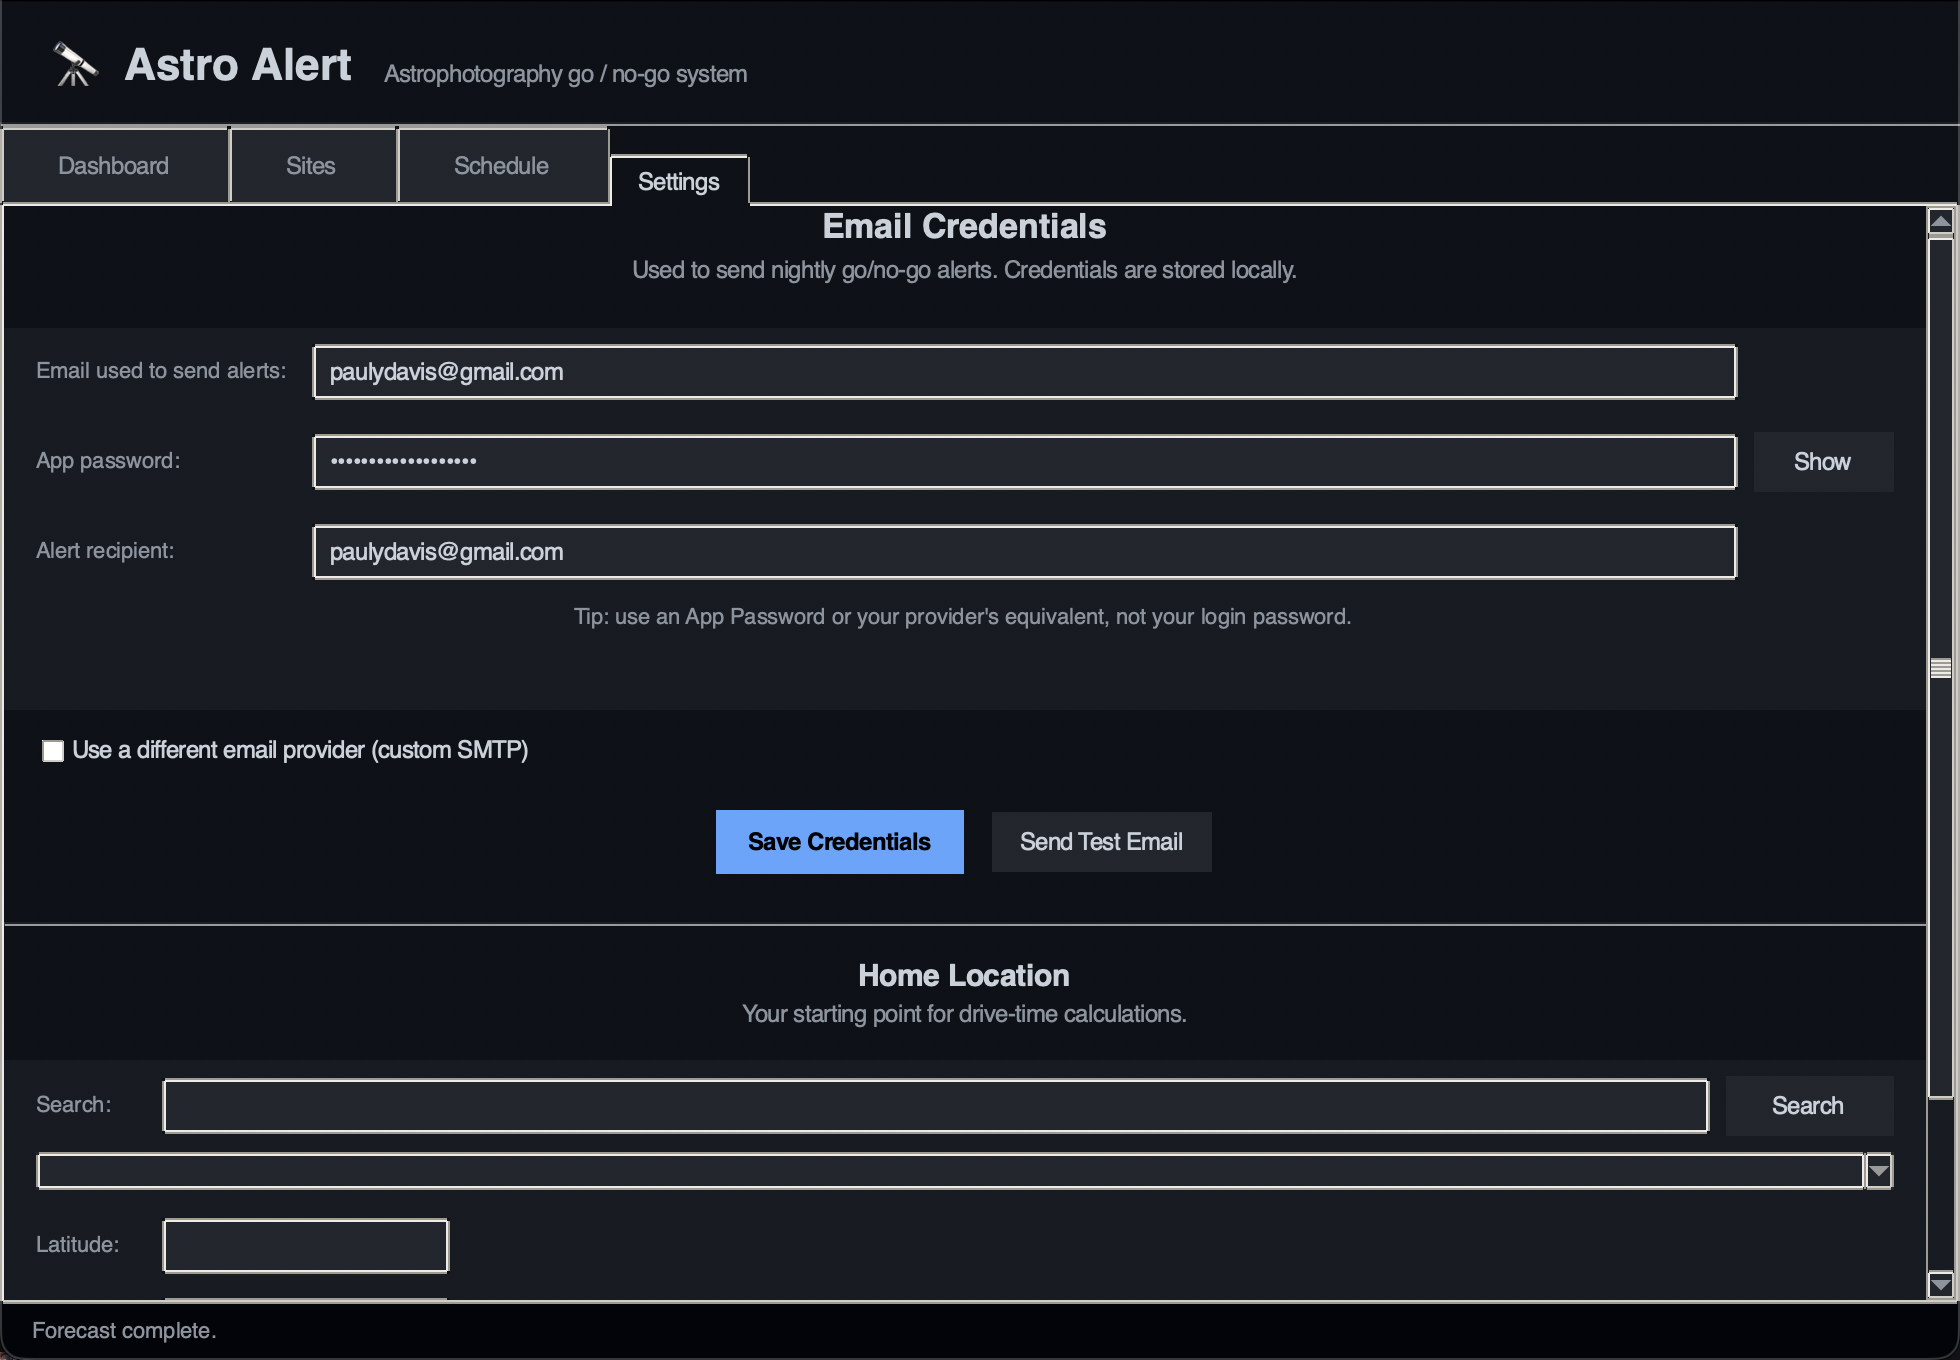
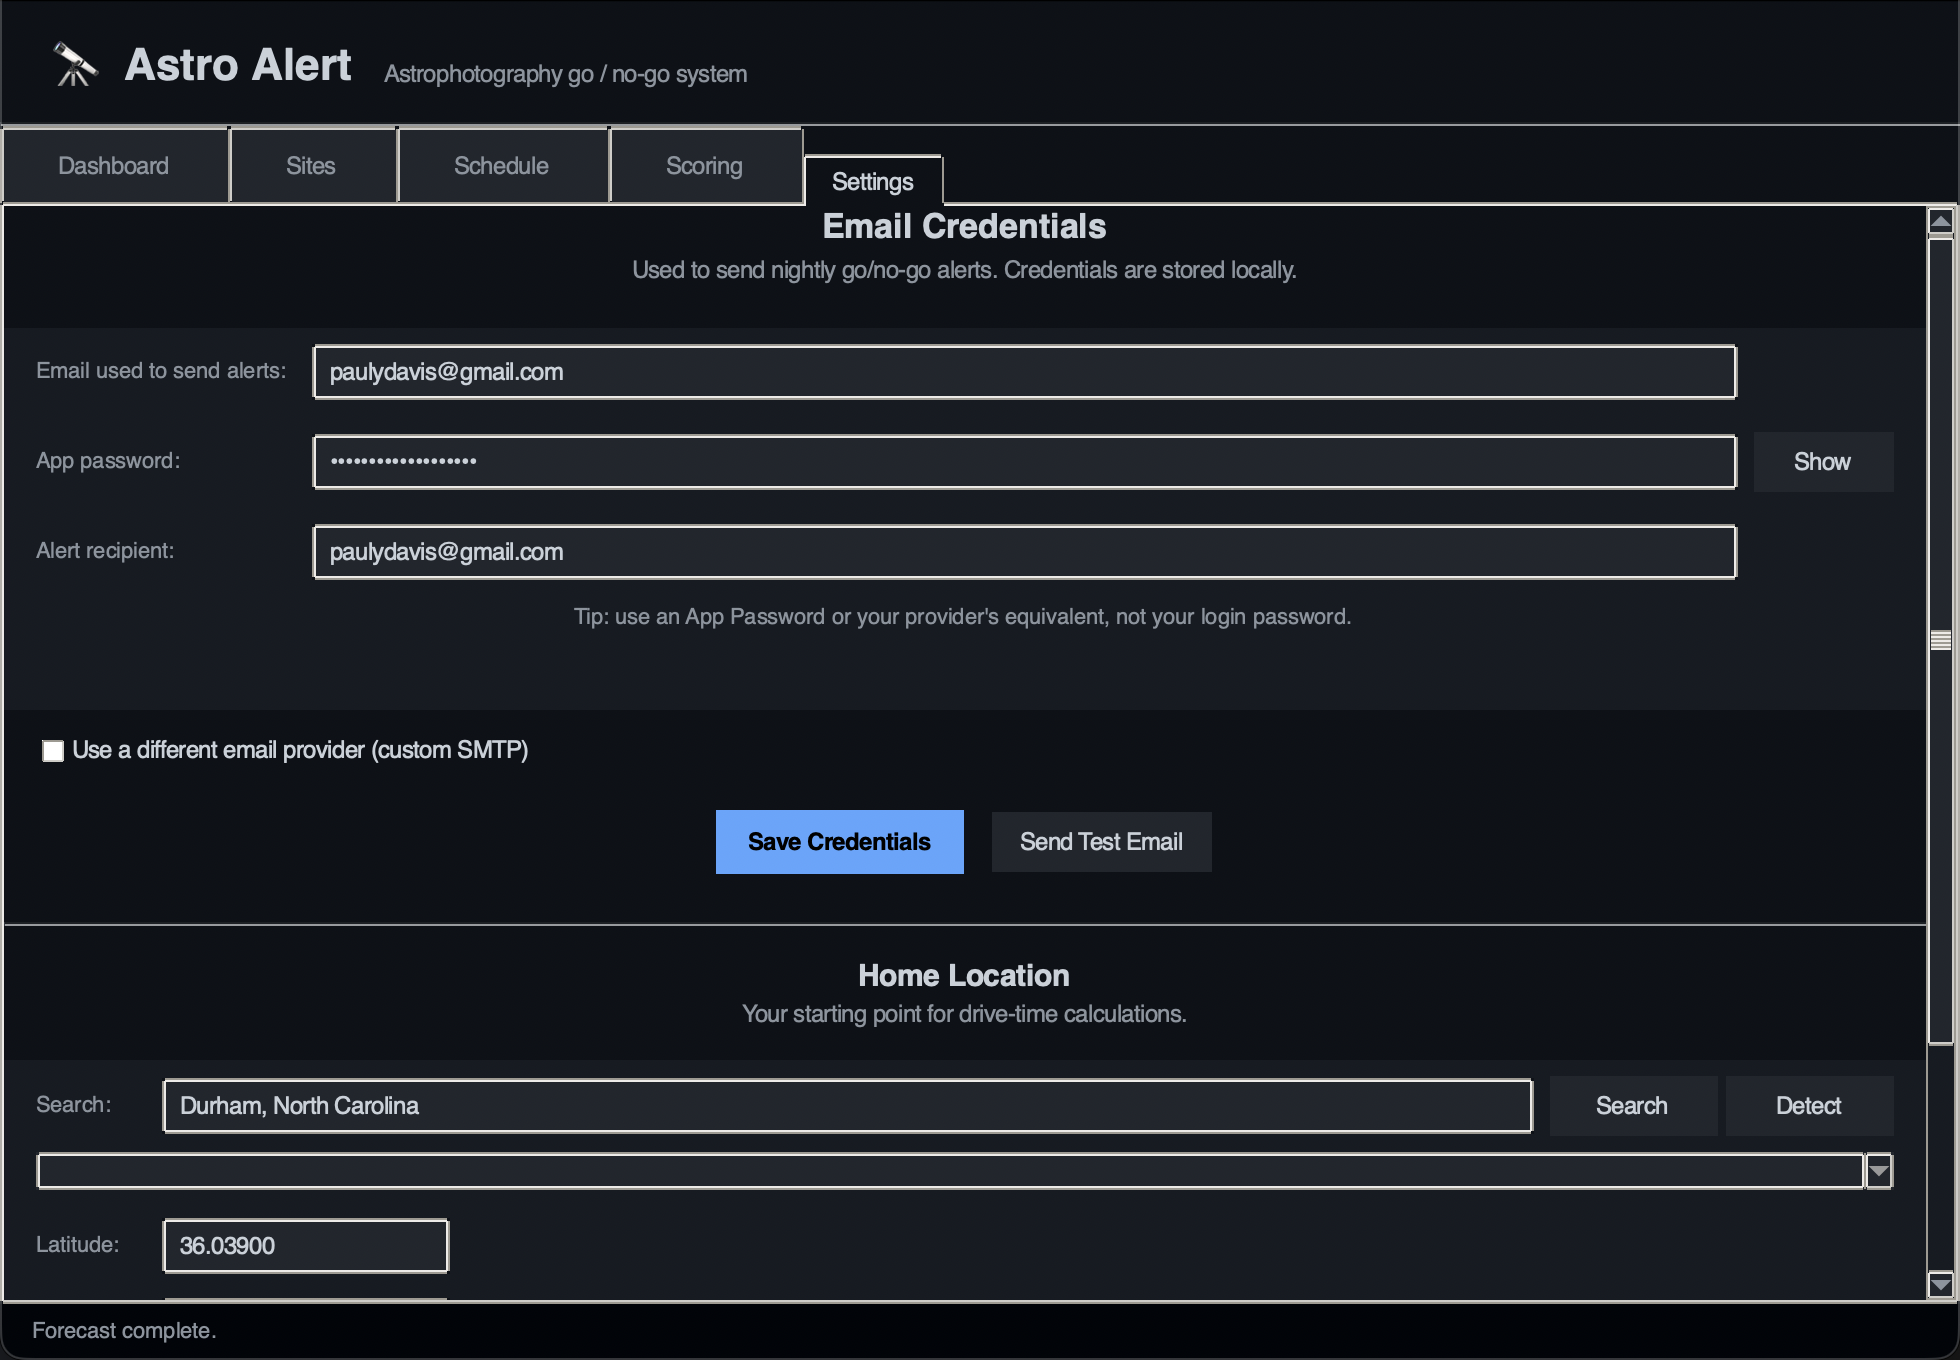
docs: refresh screenshots and README for v1.1.0 Scoring tab

diff --git a/take_screenshots.py b/take_screenshots.py
@@ -70,16 +70,21 @@ def run():
 
     def step4():
         screencap("schedule.png", app)
-        app._nb.select(3)           # Settings tab
+        app._nb.select(3)           # Scoring tab
         app.after(600, step5)
 
     def step5():
+        screencap("scoring.png", app)
+        app._nb.select(4)           # Settings tab
+        app.after(600, step6)
+
+    def step6():
         screencap("settings.png", app)
         # Open Add Site dialog
         dlg = gui.SiteDialog(app, title="Add Site")
-        app.after(400, lambda: step6(dlg))
+        app.after(400, lambda: step7(dlg))
 
-    def step6(dlg):
+    def step7(dlg):
         screencap_window("add_site_dialog.png", dlg)
         dlg.destroy()
         app.after(300, app.destroy)

diff --git a/README.md b/README.md
@@ -4,7 +4,7 @@ Go/no-go email alert system for astrophotography sessions. Fetches weather, atmo
 
 ## GUI
 
-Astro Alert has a graphical control panel with four tabs:
+Astro Alert has a graphical control panel with five tabs:
 
 **Dashboard** — run a dry-run or live forecast for any site, with colour-coded GO/NO-GO output.
 
@@ -19,6 +19,10 @@ Astro Alert has a graphical control panel with four tabs:
 **Schedule** — set up the two automatic daily emails with one click. Astro Alert runs itself in the background every day — no need to remember to open it.
 
 ![Schedule](screenshots/schedule.png)
+
+**Scoring** — adjust how much each factor (weather, seeing, moon) contributes to the go/no-go score. Sliders for all top-level and sub-weights; changes persist across sessions and are picked up by the next forecast run.
+
+![Scoring](screenshots/scoring.png)
 
 **Settings** — enter your Gmail address and App Password. Also set your **Home Location** (address search with autocomplete) — this becomes the starting point for automatic drive-time calculations. Credentials and home location are saved to your OS user data directory (never next to the source files).
 
@@ -83,15 +87,17 @@ Every evening at **6pm**, an email arrives with tomorrow night's forecast across
 
 Each site is scored 0–100:
 
-| Component | Weight | Source |
-|-----------|--------|--------|
-| Weather (clouds, precip, wind, dew) | 0–40 | Open-Meteo |
-| Seeing & transparency | 0–30 | 7timer.info (ASTRO product) |
-| Moon phase & position | 0–30 | ephem |
+| Component | Default weight | Source |
+|-----------|---------------|--------|
+| Weather (clouds, wind, humidity/dew) | 40 | Open-Meteo |
+| Seeing & transparency | 30 | 7timer.info (ASTRO product) |
+| Moon phase & dark hours | 30 | ephem |
 
-**GO threshold: 55/100.** Scoring is Bortle-aware — cloud cover is weighted more heavily at dark sites (Bortle ≤ 4) where sky quality is the whole point of the drive.
+Weights are relative and normalized automatically — setting Weather to 80 and the others to 20 each means weather is twice as influential, not that the score range changes. All weights are configurable in the **Scoring** tab.
 
-**Moon hard cutoff:** if the moon is ≥ 75% illuminated and still up at midnight, the night is automatically NO-GO regardless of score. If the moon is ≥ 75% but sets before midnight, the score reflects the usable dark hours after moonset (up to 12/30) and the email notes what time to start imaging.
+**GO threshold: 55/100** (configurable). Scoring is Bortle-aware — cloud cover is weighted more heavily at dark sites (Bortle ≤ 4) where sky quality is the whole point of the drive.
+
+**Moon hard cutoff:** if the moon is ≥ 75% illuminated and still up at midnight, the night is automatically NO-GO regardless of score. If the moon is ≥ 75% but sets before midnight, the score reflects the usable dark hours after moonset and the email notes what time to start imaging.
 
 ## Sites
 
@@ -286,40 +292,40 @@ python3 astro_alert.py add-site my_spot "My Dark Spot" 35.5 -79.2 150 3 America/
 Moon: 79% illuminated  rises 20:22Z  sets 08:17Z
 
 Jordan Lake SRA (36min drive)
-  NO-GO — 30/100  [weather 8/40, seeing 21/30, moon 1/30]
-  Partly cloudy (40% avg) · Poor transparency (2.3/8) · Bright moon (79% illuminated) · Moon up at midnight
+  NO-GO — 30/100  [weather 21%, seeing 70%, moon 3%]
+  Partly cloudy (40%) · Poor transparency (2.3/8) · Bright moon (79% illuminated) · Moon up at midnight
 
 Eno River State Park (40min drive)
-  NO-GO — 29/100  [weather 8/40, seeing 20/30, moon 1/30]
-  Partly cloudy (39% avg) · Poor transparency (2.0/8) · Bright moon (79% illuminated) · Moon up at midnight
+  NO-GO — 29/100  [weather 21%, seeing 67%, moon 3%]
+  Partly cloudy (39%) · Poor transparency (2.0/8) · Bright moon (79% illuminated) · Moon up at midnight
 
 Little River Regional Park (48min drive)
-  NO-GO — 20/100  [weather 0/40, seeing 19/30, moon 1/30]
-  Mostly cloudy (53% avg) · Poor transparency (2.0/8) · Bright moon (79% illuminated) · Moon up at midnight
+  NO-GO — 20/100  [weather 7%, seeing 63%, moon 3%]
+  Mostly cloudy (53%) · Poor transparency (2.0/8) · Bright moon (79% illuminated) · Moon up at midnight
 
 Medoc Mountain State Park (70min drive)
-  NO-GO — 50/100  [weather 30/40, seeing 19/30, moon 1/30]
+  NO-GO — 50/100  [weather 79%, seeing 63%, moon 3%]
   Poor transparency (2.3/8) · Bright moon (79% illuminated) · Moon up at midnight
 
 Uwharrie National Forest (105min drive)
-  NO-GO — 20/100  [weather 0/40, seeing 19/30, moon 1/30]
-  Mostly cloudy (61% avg) · Poor transparency (2.0/8) · Bright moon (79% illuminated) · Moon up at midnight
+  NO-GO — 20/100  [weather 7%, seeing 63%, moon 3%]
+  Mostly cloudy (61%) · Poor transparency (2.0/8) · Bright moon (79% illuminated) · Moon up at midnight
 
 Bladen Lakes State Forest (120min drive)
-  GO — 57/100  [weather 22/40, seeing 34/30, moon 1/30]
+  GO — 57/100  [weather 57%, seeing 100%, moon 3%]
   Poor transparency (2.3/8) · Bright moon (79% illuminated) · Moon up at midnight
 
 James River State Park (120min drive)
-  NO-GO — 20/100  [weather 0/40, seeing 19/30, moon 1/30]
-  Mostly cloudy (73% avg) · Poor transparency (2.0/8) · Bright moon (79% illuminated) · Moon up at midnight
+  NO-GO — 20/100  [weather 7%, seeing 63%, moon 3%]
+  Mostly cloudy (73%) · Poor transparency (2.0/8) · Bright moon (79% illuminated) · Moon up at midnight
 
 Staunton River State Park (120min drive)
-  NO-GO — 33/100  [weather 12/40, seeing 20/30, moon 1/30]
-  Partly cloudy (47% avg) · Poor transparency (2.3/8) · Bright moon (79% illuminated) · Moon up at midnight
+  NO-GO — 33/100  [weather 36%, seeing 67%, moon 3%]
+  Partly cloudy (47%) · Poor transparency (2.3/8) · Bright moon (79% illuminated) · Moon up at midnight
 
 Durham Home (home)
-  NO-GO — 29/100  [weather 8/40, seeing 20/30, moon 1/30]
-  Partly cloudy (32% avg) · Poor transparency (2.0/8) · Bright moon (79% illuminated) · Moon up at midnight
+  NO-GO — 29/100  [weather 21%, seeing 67%, moon 3%]
+  Partly cloudy (32%) · Poor transparency (2.0/8) · Bright moon (79% illuminated) · Moon up at midnight
 ```
 
 Sites are listed in drive-time order (shortest first). The subject line calls out the best GO site, or the highest-scoring site if everything is NO-GO.
@@ -330,14 +336,15 @@ Sites are listed in drive-time order (shortest first). The subject line calls ou
 astro_alert/
 ├── main.py              # Entry point: GUI when run bare, CLI when run with args
 ├── astro_alert.py       # CLI entry point and argument parser
-├── gui.py               # Tkinter GUI (dashboard, sites, schedule, settings)
+├── gui.py               # Tkinter GUI (dashboard, sites, schedule, scoring, settings)
 ├── data_dir.py          # Platform-aware user data directory
 ├── scheduler_setup.py   # Cross-platform cron / Task Scheduler install
 ├── site_manager.py      # Load/save sites.json
 ├── weather.py           # Open-Meteo weather fetch
 ├── seeing.py            # 7timer.info seeing/transparency fetch
 ├── moon.py              # Moon phase and rise/set via ephem
-├── scorer.py            # Bortle-aware 0–100 scoring
+├── scorer.py            # Bortle-aware 0–100 scoring with configurable weights
+├── scoring_weights.py   # ScoringWeights dataclass and persistence
 ├── smtp_notifier.py     # Provider-neutral SMTP email sender
 ├── notifier.py          # Alert dispatch
 ├── sites.json           # Site database (your locations)
@@ -348,7 +355,7 @@ astro_alert/
 ├── build.sh             # Build script for macOS / Linux
 ├── build.bat            # Build script for Windows
 ├── AstroAlert.desktop   # Linux app menu entry template
-└── test_*.py            # pytest test suite (274 tests)
+└── test_*.py            # pytest test suite (319 tests)
 ```
 
 ## Running tests
